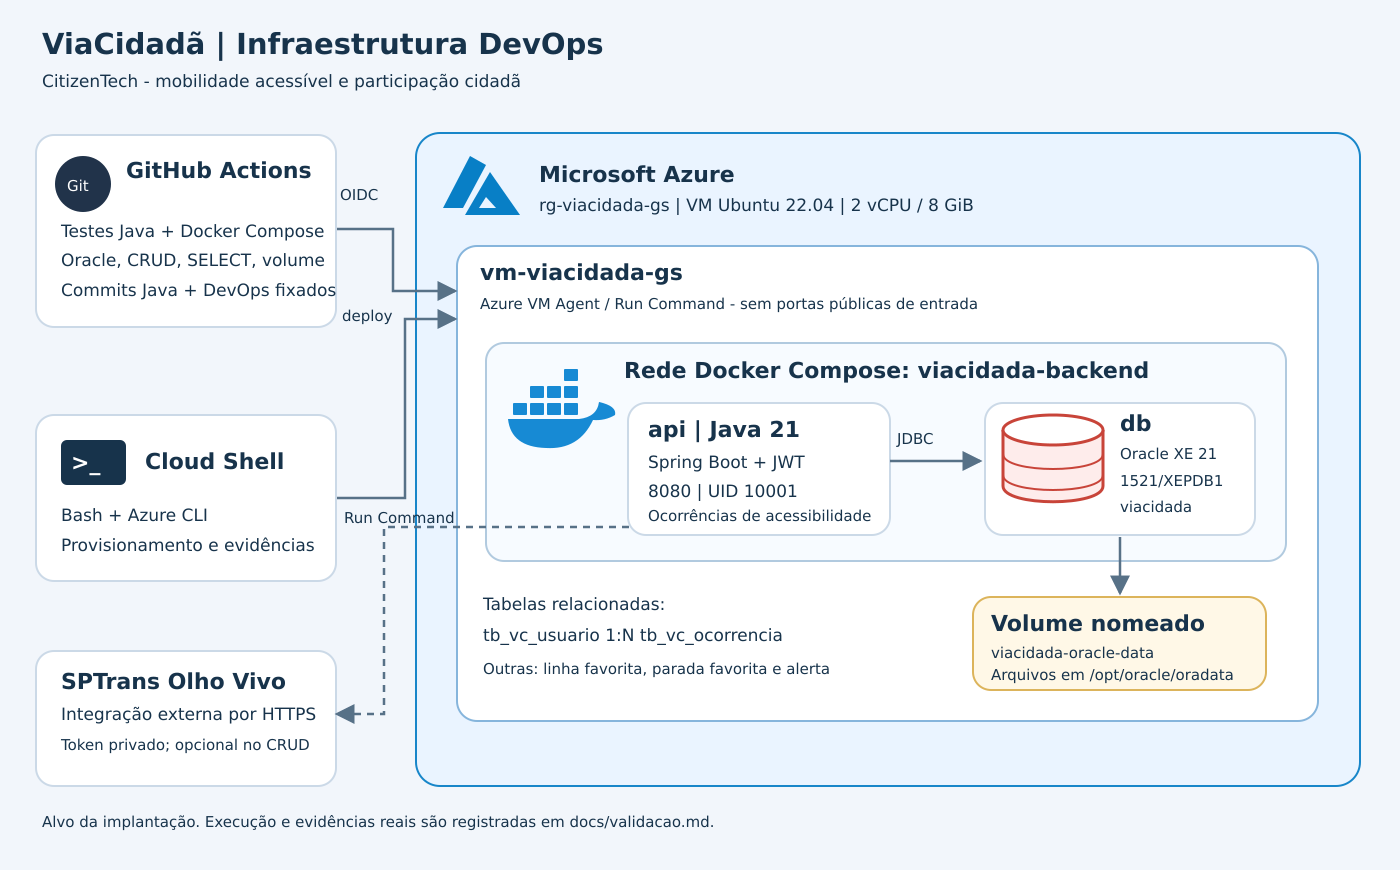
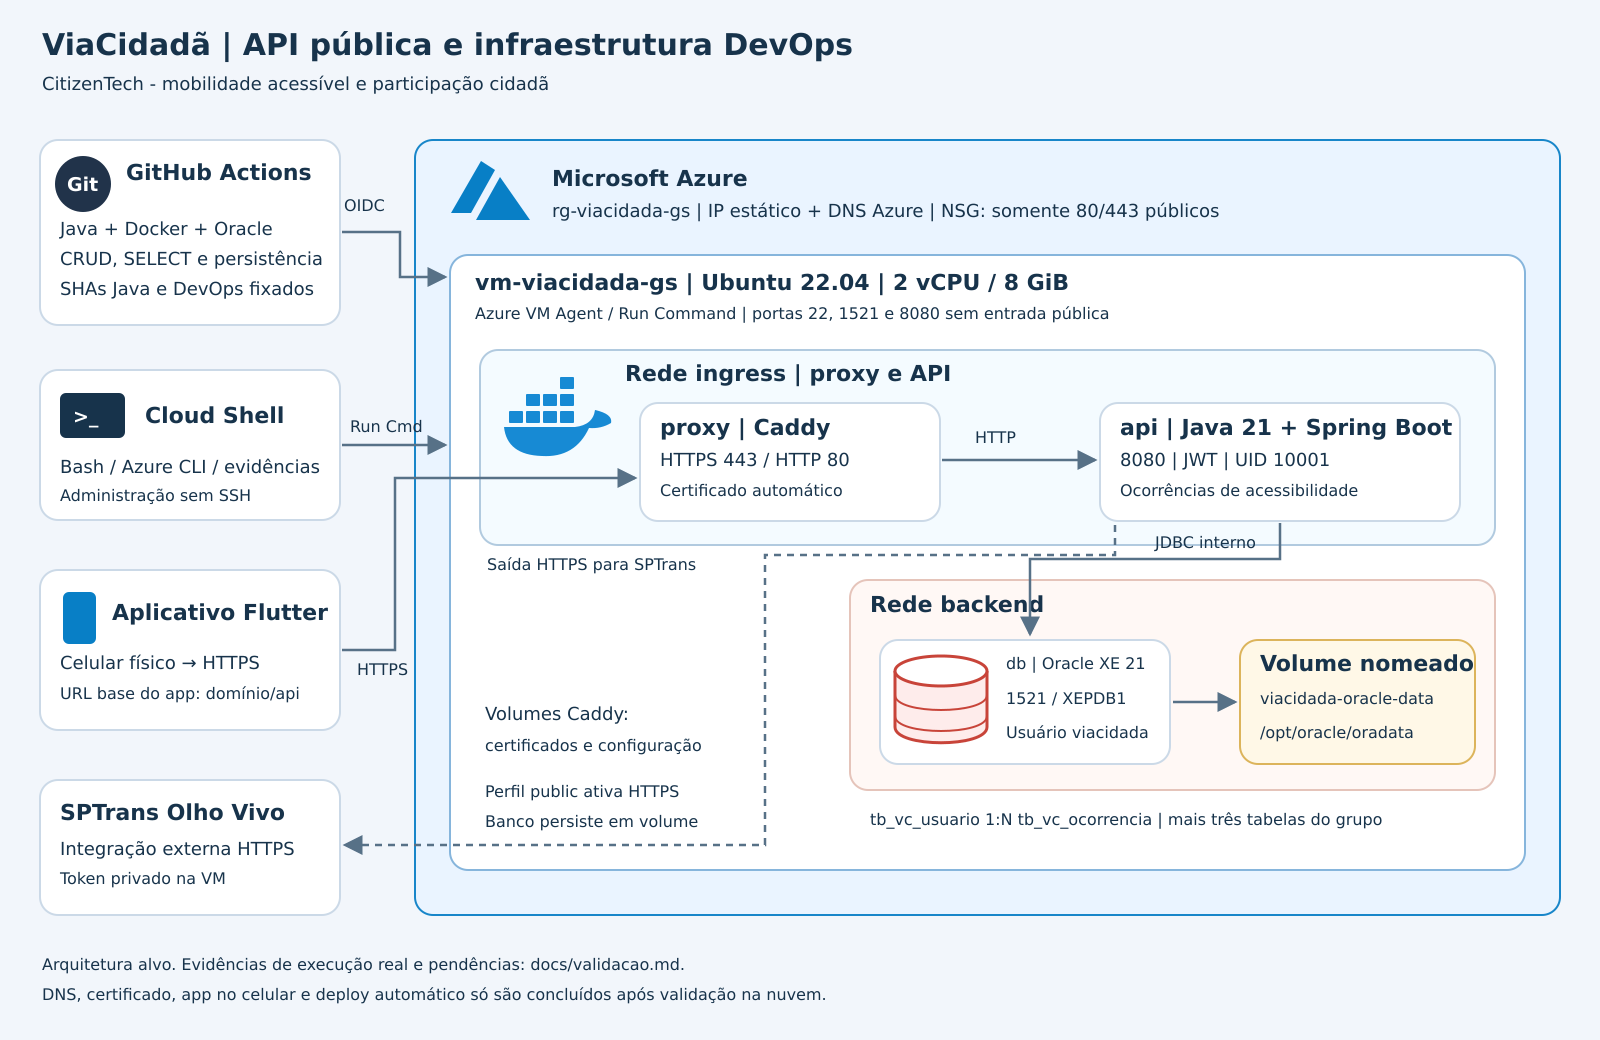
docs: registra CI aprovado e acesso pelo celular

Changed region(s): [[0.0307, 0.031, 0.9829, 0.869], [0.0307, 0.869, 0.9829, 0.9621]]

diff --git a/docs/validacao.md b/docs/validacao.md
@@ -1,35 +1,52 @@
 # Validação - 17/11/2026
 
-## Conferências executadas no ambiente de preparação
+## Execução aprovada no GitHub Actions
 
-- Leitura do enunciado DevOps e análise dos repositórios Java, Banco e DevOps.
-- Fonte Java analisada: e627711b3e971ead00e0234e407b9528e7e32096.
-- SQL original: 1464861a8670921e5cd5ab5ddf881ca9d5bf4101; cópia conferida por hash.
-- Sintaxe Bash dos scripts, parse de YAML e sintaxe Python verificados.
-- Geração de .env testada em diretório temporário: permissão 600 e recusa de sobrescrita confirmadas.
-- Links locais conferidos e SVG da arquitetura renderizado e revisado.
+- Run: https://github.com/GS-EDUeAMIGOS/gs-devops-cloud/actions/runs/44167072340
+- Head da branch testada: `6a04348fd01564c565ba04406faffaa1cae284a0`.
+- Fonte Java: `e627711b3e971ead00e0234e407b9528e7e32096`.
+- Job `validar`: **success**. Deploy Azure: **skipped**, ainda desativado.
+- [Trechos do log](../evidence/ci-2026-11-17.txt), com timestamps UTC e sem credenciais.
 
-## Não executado / bloqueios
+| Verificação realmente executada | Resultado |
+| --- | --- |
+| Maven verify | 9 testes; zero falhas, erros ou ignorados; BUILD SUCCESS |
+| Dockerfile Java 21 | Imagem compilada e iniciada; processo UID/GID 10001; /opt/viacidada |
+| Oracle XE 21 | Inicialização com SQL original; cinco tabelas; schema validado pelo Hibernate |
+| HTTP | Swagger, OpenAPI, saúde e ocorrências funcionando |
+| CRUD com JWT | Cadastro e criação 201; leitura e alteração 200; entrada inválida 400 |
+| Consulta direta ao Oracle | SELECT com JOIN do mesmo usuário e ocorrência |
+| Persistência | Ambos os containers removidos e recriados; login, ID e título preservados |
+| Exclusão via API | DELETE 204 seguido de GET 404 |
+| Caddy | Configuração válida e encaminhamento interno para a saúde da API aprovado |
 
-O comando `bash mvnw -B -ntp test` foi tentado no checkout Java. O Maven não
-conseguiu baixar o parent Spring Boot 3.4.5 por falha de resolução de rede para
-repo.maven.apache.org. Isso não é um teste aprovado nem uma falha funcional
-comprovada da API.
+Os dois primeiros runs identificaram incompatibilidades reais: a senha aleatória
+excedia o limite do Oracle XE e o SQLPlus precisava aceitar linhas em branco.
+O gerador passou a usar senhas de 26 caracteres; o wrapper ativa SQLBLANKLINES,
+monta o SQL fora dos scripts automáticos e só marca o banco como saudável após
+terminar a inicialização. O arquivo SQL do grupo permaneceu idêntico ao original.
 
-Docker não está disponível neste ambiente. Build da imagem, inicialização do
-Oracle, validação Hibernate, CRUD e persistência ainda dependem da execução do
-Actions ou da VM. A conexão Oracle FIAP não foi usada.
+## Conferências adicionais
 
-O conector GitHub retornou 403 ao tentar criar a branch. Arquivos preparados
-localmente não são considerados publicados até confirmação no repositório.
+- Leitura do enunciado DevOps e análise dos repositórios Java, Banco, Mobile e DevOps.
+- SQL original: `1464861a8670921e5cd5ab5ddf881ca9d5bf4101`; hash conferido.
+- Sintaxe Bash, YAML e Python; links locais e arquitetura SVG/PNG conferidos.
+- Geração de .env em diretório temporário: permissão 600 e recusa de sobrescrita.
+- Credenciais recebidas no chat não foram incluídas nos arquivos publicados.
 
-## Critérios para registrar sucesso
+O Maven local não conseguiu resolver dependências por limitação de rede, mas o
+mesmo comando de validação foi executado com sucesso no runner GitHub.
+Docker não existe no ambiente de preparação; a execução acima aconteceu no CI.
 
-1. Job de validação aprovado, incluindo Oracle e recriação dos containers.
-2. VM running criada por CLI, com saída real registrada.
-3. VIACIDADA_DEPLOY_OK e VIACIDADA_VERIFY_OK na VM.
-4. SELECT com JOIN mostrando usuário/ocorrência e VIACIDADA_PERSISTENCE_OK.
-5. Um novo commit Java provocar deploy do mesmo SHA na VM.
+## Pendente na nuvem
 
-Atualize este registro com URLs de runs, SHAs e data depois de executar. Não
-substitua os resultados reais por um checklist marcado automaticamente.
+O sucesso do CI não comprova deploy Azure, emissão de certificado ou uso pelo
+celular. A conta pessoal encontrada na Azure não exibe assinatura; é preciso
+confirmar a conta de estudante antes de acessar os créditos.
+
+Ainda faltam: criar a VM por CLI, implantar, repetir CRUD/SELECT/persistência,
+ativar DNS/HTTPS e testar pelo celular. Depois, configurar OIDC e variáveis e
+confirmar que um commit Java atualiza o mesmo SHA na VM. O token SPTrans deve
+ficar no ambiente privado; os serviços externos exigem teste próprio.
+
+Não há evidência de nuvem, vídeo ou PDF final ainda. O Oracle FIAP não foi usado.

diff --git a/docs/acesso-mobile.md b/docs/acesso-mobile.md
@@ -1,0 +1,81 @@
+# API para o aplicativo no celular
+
+## Endereço da nuvem
+
+O endereço real será registrado aqui depois de criar a VM e aprovar o teste HTTPS.
+Ainda não há URL pública validada. Não use os exemplos abaixo como endereço ativo.
+
+Após o primeiro deploy, execute no Cloud Shell:
+
+```bash
+bash azure/publish-api.sh
+```
+
+O script configura um nome DNS no IP estático Azure, libera somente TCP 80/443 no
+NSG e ativa o perfil `public` do Compose. O Caddy emite e renova o certificado,
+redireciona HTTP para HTTPS e encaminha as requisições para `api:8080`.
+Os arquivos do certificado ficam em volumes próprios. SSH, Oracle e 8080 não
+ganham regras públicas. O banco fica na rede `backend`; o proxy só participa de
+`ingress`, compartilhada com a API.
+
+| Uso | Caminho no domínio HTTPS exibido pelo script |
+| --- | --- |
+| URL base do serviço | raiz do domínio |
+| `baseUrl` do Flutter | `/api` |
+| Swagger | `/swagger-ui/index.html` |
+| Saúde | `/actuator/health` |
+| Cadastro | `POST /api/auth/register` |
+| Login | `POST /api/auth/login` |
+| Ocorrências | `/api/ocorrencias` |
+
+## Ajuste necessário no Flutter
+
+Em `gs-mobile/lib/services/api_service.dart`, `baseUrl` ainda usa `localhost` no
+desktop/web e `10.0.2.2` no Android. O segundo endereço funciona no emulador;
+no aparelho físico ele não aponta para a VM. O app deve receber a URL HTTPS da
+nuvem terminada em `/api`, sem duplicar esse prefixo nos endpoints.
+
+Sugestão para o responsável por Mobile, no começo do getter existente:
+
+```dart
+const cloudUrl = String.fromEnvironment('API_BASE_URL');
+if (cloudUrl.isNotEmpty) {
+  return cloudUrl.replaceFirst(RegExp(r'/$'), '');
+}
+```
+
+Depois, usando o domínio **real** exibido na publicação:
+
+```bash
+flutter run --dart-define=API_BASE_URL=https://DOMINIO_REAL/api
+flutter build apk --dart-define=API_BASE_URL=https://DOMINIO_REAL/api
+```
+
+Não foi alterado o código Mobile nesta entrega DevOps. A sugestão preserva os
+endereços locais quando o parâmetro não é passado e evita mudar o código a cada
+ambiente. HTTPS atende o aparelho físico sem desabilitar a validação de certificado.
+No aplicativo nativo, CORS não limita as requisições; para Flutter Web, inclua a
+origem real do site em `CORS_ALLOWED_ORIGINS`, separando origens por vírgula.
+
+## Conferir integração real antes de gravar
+
+1. Abrir a saúde e o Swagger pelo navegador do celular, usando dados móveis.
+2. Cadastrar um usuário novo pela API. O Oracle isolado não possui os usuários de demonstração H2.
+3. Entrar no app, criar uma ocorrência fictícia e anotar seu ID.
+4. Consultar o mesmo ID no Swagger e confirmar pelo SELECT no Oracle da VM.
+5. Fechar/reabrir o app e confirmar o mesmo registro.
+
+O Mobile possui fallback com dados em memória quando a conexão falha. Uma tela
+com registros de demonstração sozinha não comprova conexão à Azure. Conferir o
+mesmo ID no Swagger e no Oracle demonstra que o app usou o backend publicado.
+
+As consultas SPTrans dependem do token privado configurado na VM. Aprovação do
+CRUD não prova que linhas, previsão, GPS e rotas externas estão funcionando.
+Esses caminhos precisam ser testados com o responsável Java/Mobile antes dos vídeos.
+
+## Validação técnica
+
+`scripts/test-proxy.sh` valida o Caddyfile e o encaminhamento interno durante CI.
+`scripts/verify-public.sh https://DOMINIO_REAL` valida o certificado e os quatro
+endereços públicos depois da publicação, sem usar `curl -k`.
+Um teste no aparelho físico continua necessário para validar o aplicativo.

diff --git a/docs/apresentacao.md b/docs/apresentacao.md
@@ -9,8 +9,9 @@ da sprint anterior a esta GS.
 | --- | --- |
 | README e arquitetura | Mobilidade acessível; API Java e Oracle na VM, rede e volume |
 | Azure Cloud Shell Bash | Saída de provision.sh e VM running; foi criada via CLI |
-| Dockerfile e Compose | Maven gera JAR; imagem final roda Java como UID 10001; db saudável antes da API |
-| Run Command na VM | compose ps, logs, exec id, pwd e ls; dois containers em background |
+| Dockerfile e Compose | Maven gera JAR; Java roda como UID 10001; healthcheck espera o schema Oracle |
+| Run Command na VM | compose ps, logs, exec id, pwd e ls; API e Oracle em background |
+| Acesso pelo celular | DNS, Caddy e HTTPS público; Swagger externo e mesma ocorrência vista no app e Oracle |
 | Teste CRUD | Cadastro JWT, criar/consultar/atualizar ocorrência, entrada inválida |
 | SELECT direto no Oracle | Duas tabelas relacionadas e JOIN; dados realmente persistidos |
 | Recriar containers | down SEM -v, up, login e consulta do mesmo registro; depois DELETE e 404 |
@@ -28,6 +29,7 @@ Para a banca:
 - O JAR é a aplicação Java compilada; o JRE é quem a executa.
 - A API usa usuário de aplicação no Oracle, e não SYS; o processo Java usa UID 10001.
 - OIDC permite ao GitHub autenticar na Azure sem guardar uma senha permanente.
+- Caddy recebe HTTPS em 443 e encaminha para a API na rede Docker; o banco não é público.
 - O runner é descartável; a VM Azure é a máquina usada na entrega e na banca.
 
 A apresentação presencial vale 30 pontos e todos podem receber perguntas.

diff --git a/docs/pendencias.md b/docs/pendencias.md
@@ -1,9 +1,11 @@
 # Pendências reais em 17/11/2026
 
-- Executar o pipeline com Oracle e conferir todos os resultados.
+- CI com Oracle, CRUD, SELECT, persistência e proxy aprovado; referência em validacao.md.
 - Publicar o workflow reutilizável na main DevOps e o gancho na API Java.
-- Autenticar a conta Azure, conferir crédito/quota e criar a VM por CLI.
+- Confirmar a conta Azure correta: a sessão pessoal não apresenta assinatura; conta FIAP aguarda confirmação.
+- Conferir crédito/quota e criar a VM por CLI.
 - Implantar, executar CRUD, SELECT e teste de persistência na VM.
+- Publicar HTTPS, registrar URL real e validar o aplicativo no aparelho físico.
 - Configurar a identidade OIDC/variáveis e confirmar deploy automático real.
 - Cadastrar SPTRANS_TOKEN somente no ambiente privado, se forem demonstradas chamadas externas.
 - Confirmar turma da GS para identificação final; o README Java informa apenas 2TDS.
